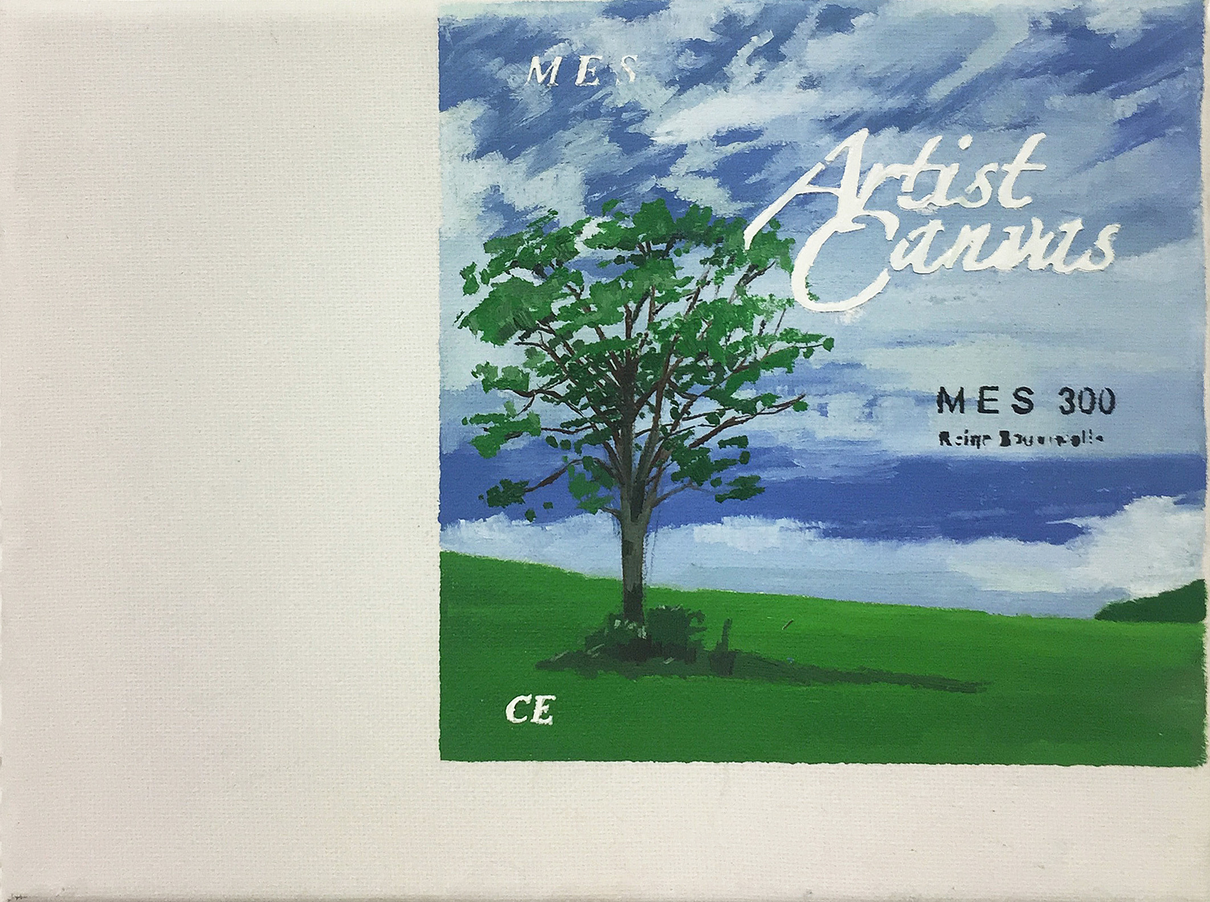
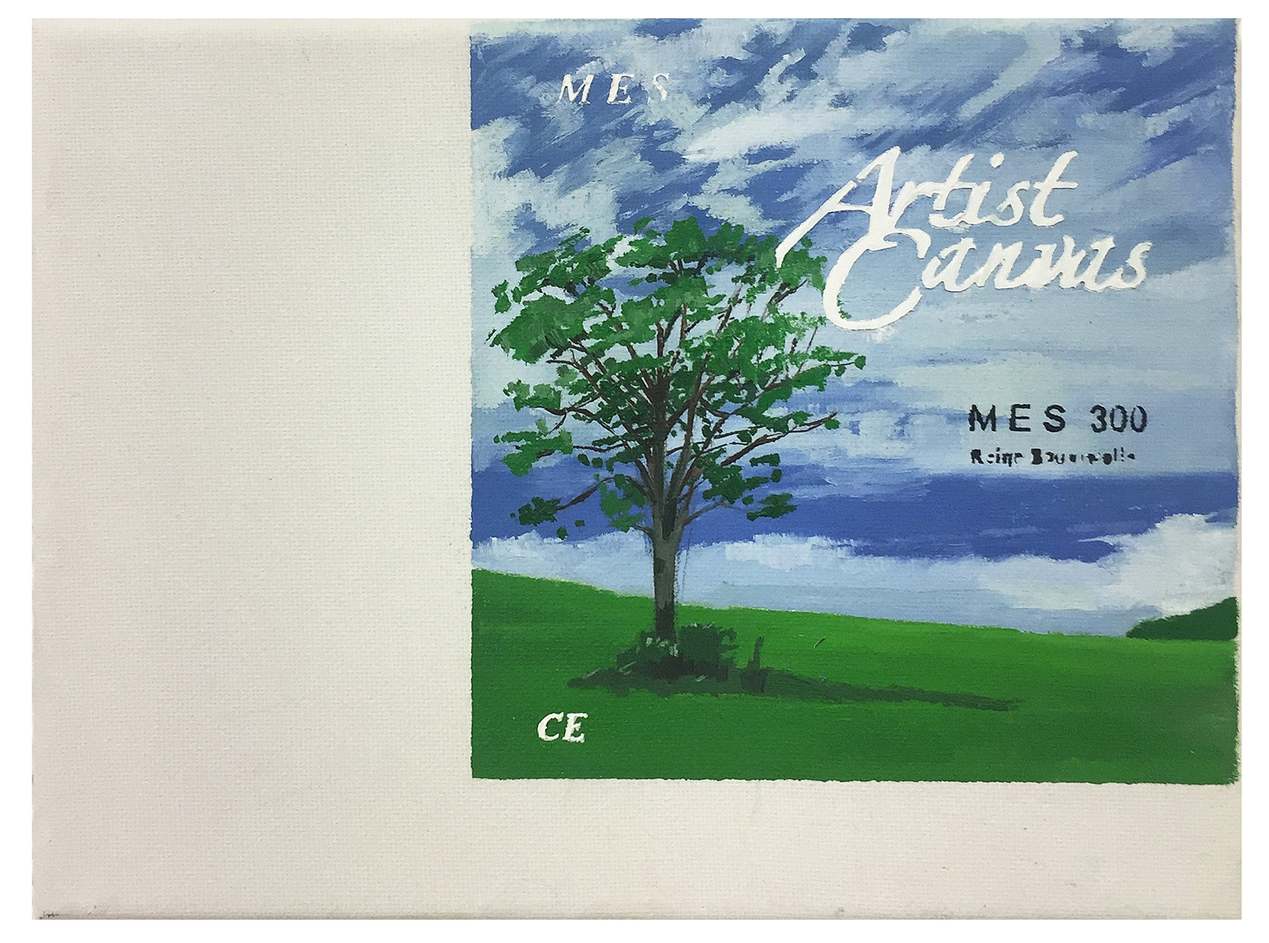
second final, small update for css and size of images

Changed region(s): [[0.0, 0.0, 1.0, 1.0], [0.7458, 0.3714, 0.7768, 0.4024]]

diff --git a/src/components/RootPage/Category.js b/src/components/RootPage/Category.js
@@ -16,7 +16,7 @@ const Ul = styled.ul`
   flex-direction: column;
 `
 const Li = styled.li`
-  margin-bottom: 23px;
+  margin-bottom: 60px;
   display: flex;
   justify-content: center;
 `
@@ -50,12 +50,10 @@ function Category() {
       allMarkdownRemark(
         filter: {
           frontmatter: {
-            category_image_path_crop: {
-              absolutePath: { regex: "/categories/" }
-            }
+            category_image_path: { absolutePath: { regex: "/categories/" } }
           }
         }
-        sort: { fields: frontmatter___category_image_path_crop___absolutePath }
+        sort: { fields: frontmatter___category_image_path___absolutePath }
       ) {
         edges {
           node {
@@ -65,14 +63,14 @@ function Category() {
             frontmatter {
               slug
               title
-              category_image_path_crop {
+              category_image_path {
                 childImageSharp {
                   gatsbyImageData(
-                    #width: 500
-                    height: 450
+                    width: 500
+                    #height: 450
                     placeholder: BLURRED
                     blurredOptions: { width: 100 }
-                    transformOptions: { fit: FILL, cropFocus: CENTER }
+                    transformOptions: { fit: COVER, cropFocus: CENTER }
                     aspectRatio: 1.7
                     formats: WEBP
                   )
@@ -101,9 +99,7 @@ function Category() {
               {/* <Link to={path.basename(edge.node.fileAbsolutePath, ".md")}> */}
               <Link to={edge.node.frontmatter.slug}>
                 <GatsbyImage
-                  image={getImage(
-                    edge.node.frontmatter.category_image_path_crop
-                  )}
+                  image={getImage(edge.node.frontmatter.category_image_path)}
                   alt={edge.node.frontmatter.title}
                 />
               </Link>

diff --git a/src/pages/credits.js b/src/pages/credits.js
@@ -7,9 +7,12 @@ const Container = styled.div`
   padding: ${S.padding};
   max-width: ${S.maxWidth};
   margin: auto;
+  min-height: 480px;
 `
 const Text = styled.p`
   margin: 10px 0;
+  word-break: break-word;
+  line-height: 1.375rem;
 `
 
 function CreditsPage() {
@@ -22,17 +25,14 @@ function CreditsPage() {
           The photographer or owner of the images can be found by hovering over
           the image. The majority of the photographs appearing on this site are
           courtesy Florian Holzherr. Photographs not otherwise credited are from
-          James Turrell Studio files.
-        </Text>
-        <Text>
-          Many thanks to the photographers who have shared their images: Kelly
-          Akashi, Grant Delin, Patrick Goetelen, John Gollings, James Hart,
-          George Holzer, Florian Holzherr, Ivar Kvaal, LACMA, Sergio Martucci,
-          Ben McMillan, Pirje Mykkänen, Mike Newman, Städtische Galerie im
-          Lenbachhaus und Kunstbau, München, P Weil, and Dick Wiser.
-        </Text>
-        <Text>
-          If you see a photo incorrectly credited, please contact us at
+          INHO CHOI Studio files.{<br />}
+          {<br />} Many thanks to the photographers who have shared their
+          images: Kelly Akashi, Grant Delin, Patrick Goetelen, John Gollings,
+          James Hart, George Holzer, Florian Holzherr, Ivar Kvaal, LACMA, Sergio
+          Martucci, Ben McMillan, Pirje Mykkänen, Mike Newman, Städtische
+          Galerie im Lenbachhaus und Kunstbau, München, P Weil, and Dick Wiser.
+          {<br />}
+          {<br />}If you see a photo incorrectly credited, please contact us at
           info@inhochoistudio.com.
         </Text>
       </Container>

diff --git a/src/components/RootPage/Main.js b/src/components/RootPage/Main.js
@@ -5,6 +5,7 @@ import { StaticImage } from "gatsby-plugin-image"
 const Container = styled.div`
   width: 100%;
   height: 100%;
+  text-align: center;
 `
 const WrapperArticle = styled.div`
   width: 100%;
@@ -48,15 +49,19 @@ export const Main = () => {
             <div
               className="wrapperImage"
               style={{
-                display: "grid",
+                // display: "grid",
                 height: "calc(100vh - 120px)",
+                maxWidth: "1190px",
+                margin: "0 auto",
               }}
             >
               <StaticImage
-                style={{
-                  gridArea: "1 / 1",
-                }}
-                src="../../images/main/main1.jpg"
+                style={
+                  {
+                    // gridArea: "1 / 1",
+                  }
+                }
+                src="../../images/main/main.jpg"
                 alt="main"
                 placeholder="blurred"
                 layout="fullWidth"
@@ -64,7 +69,7 @@ export const Main = () => {
                 // aspectRatio={4 / 3}
                 // transformOptions={{ grayscale: true, cropFocus: "attention" }}
               />
-              <div
+              {/* <div
                 style={{
                   paddingLeft: "8px",
                   gridArea: "2 / 1",
@@ -79,7 +84,7 @@ export const Main = () => {
                   <p className="exhibition-title">KÖNIG GALERIE, Berlin</p>
                   <p className="exhibition-dates">31.01.2021-05.11.2021</p>
                 </Text>
-              </div>
+              </div> */}
             </div>
           </Li>
         </ul>

diff --git a/src/pages/contact.js b/src/pages/contact.js
@@ -7,16 +7,12 @@ const Container = styled.div`
   padding: ${S.padding};
   max-width: ${S.maxWidth};
   margin: auto;
-`
-const Title = styled.h1`
-  font-size: 1em;
-  font-weight: 600;
-  text-transform: uppercase;
-  text-align: center;
-  margin: 10px 0;
+  min-height: 480px;
 `
 const Text = styled.p`
   margin: 10px 0;
+  word-break: break-word;
+  line-height: 1.375rem;
 `
 
 function ContactPage() {
@@ -27,14 +23,12 @@ function ContactPage() {
         <S.Hr />
         <Text>
           For inquiries, please contact info@inhochoistudio.com. If you would
-          like to support Inho Choi, please click here.
-        </Text>
-        <Text>
-          Please be advised that the studio is only able to approve of image
-          requests related to a commission or exhibition of Inho Choi's work.
-          Unfortunately, due to the large volume of image inquiries, the studio
-          is not able to process or respond to individual requests. Thank you
-          for your understanding and cooperation.
+          like to support Inho Choi, please click here.{<br />}
+          {<br />}Please be advised that the studio is only able to approve of
+          image requests related to a commission or exhibition of Inho Choi's
+          work. Unfortunately, due to the large volume of image inquiries, the
+          studio is not able to process or respond to individual requests. Thank
+          you for your understanding and cooperation.
         </Text>
       </Container>
     </Layout>

diff --git a/src/components/Modal/Menu.js b/src/components/Modal/Menu.js
@@ -79,6 +79,7 @@ export const Menu = () => {
           <span>works</span>
         </LinkBtn>
         <LinkBtn
+          style={{ pointerEvents: "none" }}
           onClick={() => {
             navigate("/about")
             setModal(false)
@@ -86,21 +87,12 @@ export const Menu = () => {
         >
           <span>about</span>
         </LinkBtn>
-        <LinkBtn onClick={() => navigate("#")}>
+        <LinkBtn
+          style={{ pointerEvents: "none" }}
+          onClick={() => navigate("#")}
+        >
           <span>search</span>
         </LinkBtn>
-        {/* <LinkNav to="/artist">
-          <span>artist</span>
-        </LinkNav>
-        <LinkNav to="/works">
-          <span>works</span>
-        </LinkNav>
-        <LinkNav to="/about">
-          <span>about</span>
-        </LinkNav>
-        <LinkNav to="#">
-          <span>search</span>
-        </LinkNav> */}
         <Footer>Gallery InHo Choi</Footer>
       </MenuList>
     </Container>

diff --git a/src/components/SlugPage/ImageGroup.js b/src/components/SlugPage/ImageGroup.js
@@ -3,9 +3,9 @@ import styled from "styled-components"
 import { GatsbyImage, getImage } from "gatsby-plugin-image"
 
 const WrapperItem = styled.div`
-  /* border: 1px solid blue; */
   margin-top: auto;
   cursor: pointer;
+  box-shadow: 0 4px 6px rgba(50, 50, 93, 0.11), 0 1px 3px rgba(0, 0, 0, 0.08);
   &:hover {
     opacity: 0.4;
     transition-property: opacity;
@@ -23,8 +23,8 @@ const ImageDetail = styled.div`
   padding-left: 3px;
   line-height: 1.3;
   .title {
-    /* font-size: 4vw; */
-    font-size: 3.5vw;
+    padding: 10px;
+    font-size: 3vw;
     font-weight: 400;
   }
   .material,
@@ -32,6 +32,11 @@ const ImageDetail = styled.div`
   .year {
     font-size: 0.85em;
     line-height: 1.5;
+  }
+  @media screen and (min-width: 950px) {
+    .title {
+      font-size: 2rem;
+    }
   }
 `
 

diff --git a/src/pages/{MarkdownRemark.frontmatter__slug}.js b/src/pages/{MarkdownRemark.frontmatter__slug}.js
@@ -9,7 +9,6 @@ const Container = styled.div`
   height: 100%;
 `
 const WrapperMain = styled.div`
-  /* border: 1px solid blue; */
   margin: 0px auto 70px;
   max-width: 2000px;
 `
@@ -32,7 +31,7 @@ const WrapperSub = styled.div`
   border-top: 1px solid #dfdfdf;
   padding: 1.5rem 1.25rem;
   margin: auto;
-  max-width: 2000px;
+  max-width: 1225px;
   h1 {
     font-size: 1.5em;
     letter-spacing: -1px;
@@ -83,7 +82,7 @@ export default function Template({ data }) {
           <Text>
             <p></p>
             <h1>
-              InHo Choi :{" "}
+              InHo Choi
               {/* <span>
                 {data.markdownRemark.htmlAst.children[0].children[0].value}
               </span> */}

diff --git a/src/components/Modal/EnlargeImg.js b/src/components/Modal/EnlargeImg.js
@@ -17,8 +17,10 @@ const Container = styled.div`
   align-items: center;
 `
 const WrapperImage = styled.div`
-  /* max-width: 95%;
-  max-height: 95%; */
+  width: 90%;
+  @media screen and (min-width: 961px) {
+    width: 30vw;
+  }
 `
 const Header = styled.div`
   width: 100%;
@@ -51,7 +53,9 @@ export const EnlargeImg = ({ selectedImage, setModalOpen }) => {
           />
         </Header>
         <GatsbyImage
-          style={{}}
+          style={{
+            objectFit: "fill",
+          }}
           image={getImage(selectedImage.image_url)}
           alt={selectedImage.alt}
           onClick={() => setModalOpen(false)}

diff --git a/src/styles/page.style.js b/src/styles/page.style.js
@@ -5,7 +5,6 @@ export default {
     content: "";
     display: block;
     width: 100px;
-    /* height: 0.2em; */
     height: 3px;
     border-radius: 1px;
     background-color: rgba(0, 0, 0, 0.3);
@@ -13,11 +12,9 @@ export default {
   `,
   Title: styled.h1`
     font-size: 18px;
-    /* font-size: 1.25em; */
     font-weight: 600;
     text-transform: uppercase;
     text-align: center;
-    /* color: rgba(0, 0, 0, 0.7); */
   `,
   padding: "50px 40px 0",
   maxWidth: "600px",

diff --git a/src/components/Layout/Header.js b/src/components/Layout/Header.js
@@ -119,10 +119,10 @@ export const Header = () => {
               <li>
                 <LinkNav to="/works">works</LinkNav>
               </li>
-              <li>
+              <li style={{ pointerEvents: "none" }}>
                 <LinkNav to="/about">about</LinkNav>
               </li>
-              <li>
+              <li style={{ pointerEvents: "none" }}>
                 <Button>search</Button>
               </li>
             </ul>

diff --git a/src/pages/index.js b/src/pages/index.js
@@ -19,7 +19,7 @@ function IndexPage() {
   return (
     <>
       <Helmet>
-        <title>INHO</title>
+        <title>INHO Studio</title>
         <script src="https://identity.netlify.com/v1/netlify-identity-widget.js"></script>
       </Helmet>
       <Layout>

diff --git a/src/markdown-pages/categories/c6/crypto-resource/crypto_stone_006.md b/src/markdown-pages/categories/c6/crypto-resource/crypto_stone_006.md
@@ -1,0 +1,13 @@
+---
+title: Crypto Stone 006
+artist: inho choi
+year: 2022
+size: 30x30cm
+materials: acrylic on paper
+etc: /crypto-resource
+image_url: ../../../../../static/images/crypto_stone_006.jpeg
+group: crypto resource
+group_order: 1
+---
+
+Crypto resource for painting coded in opensea.io/Crypto-Resource
